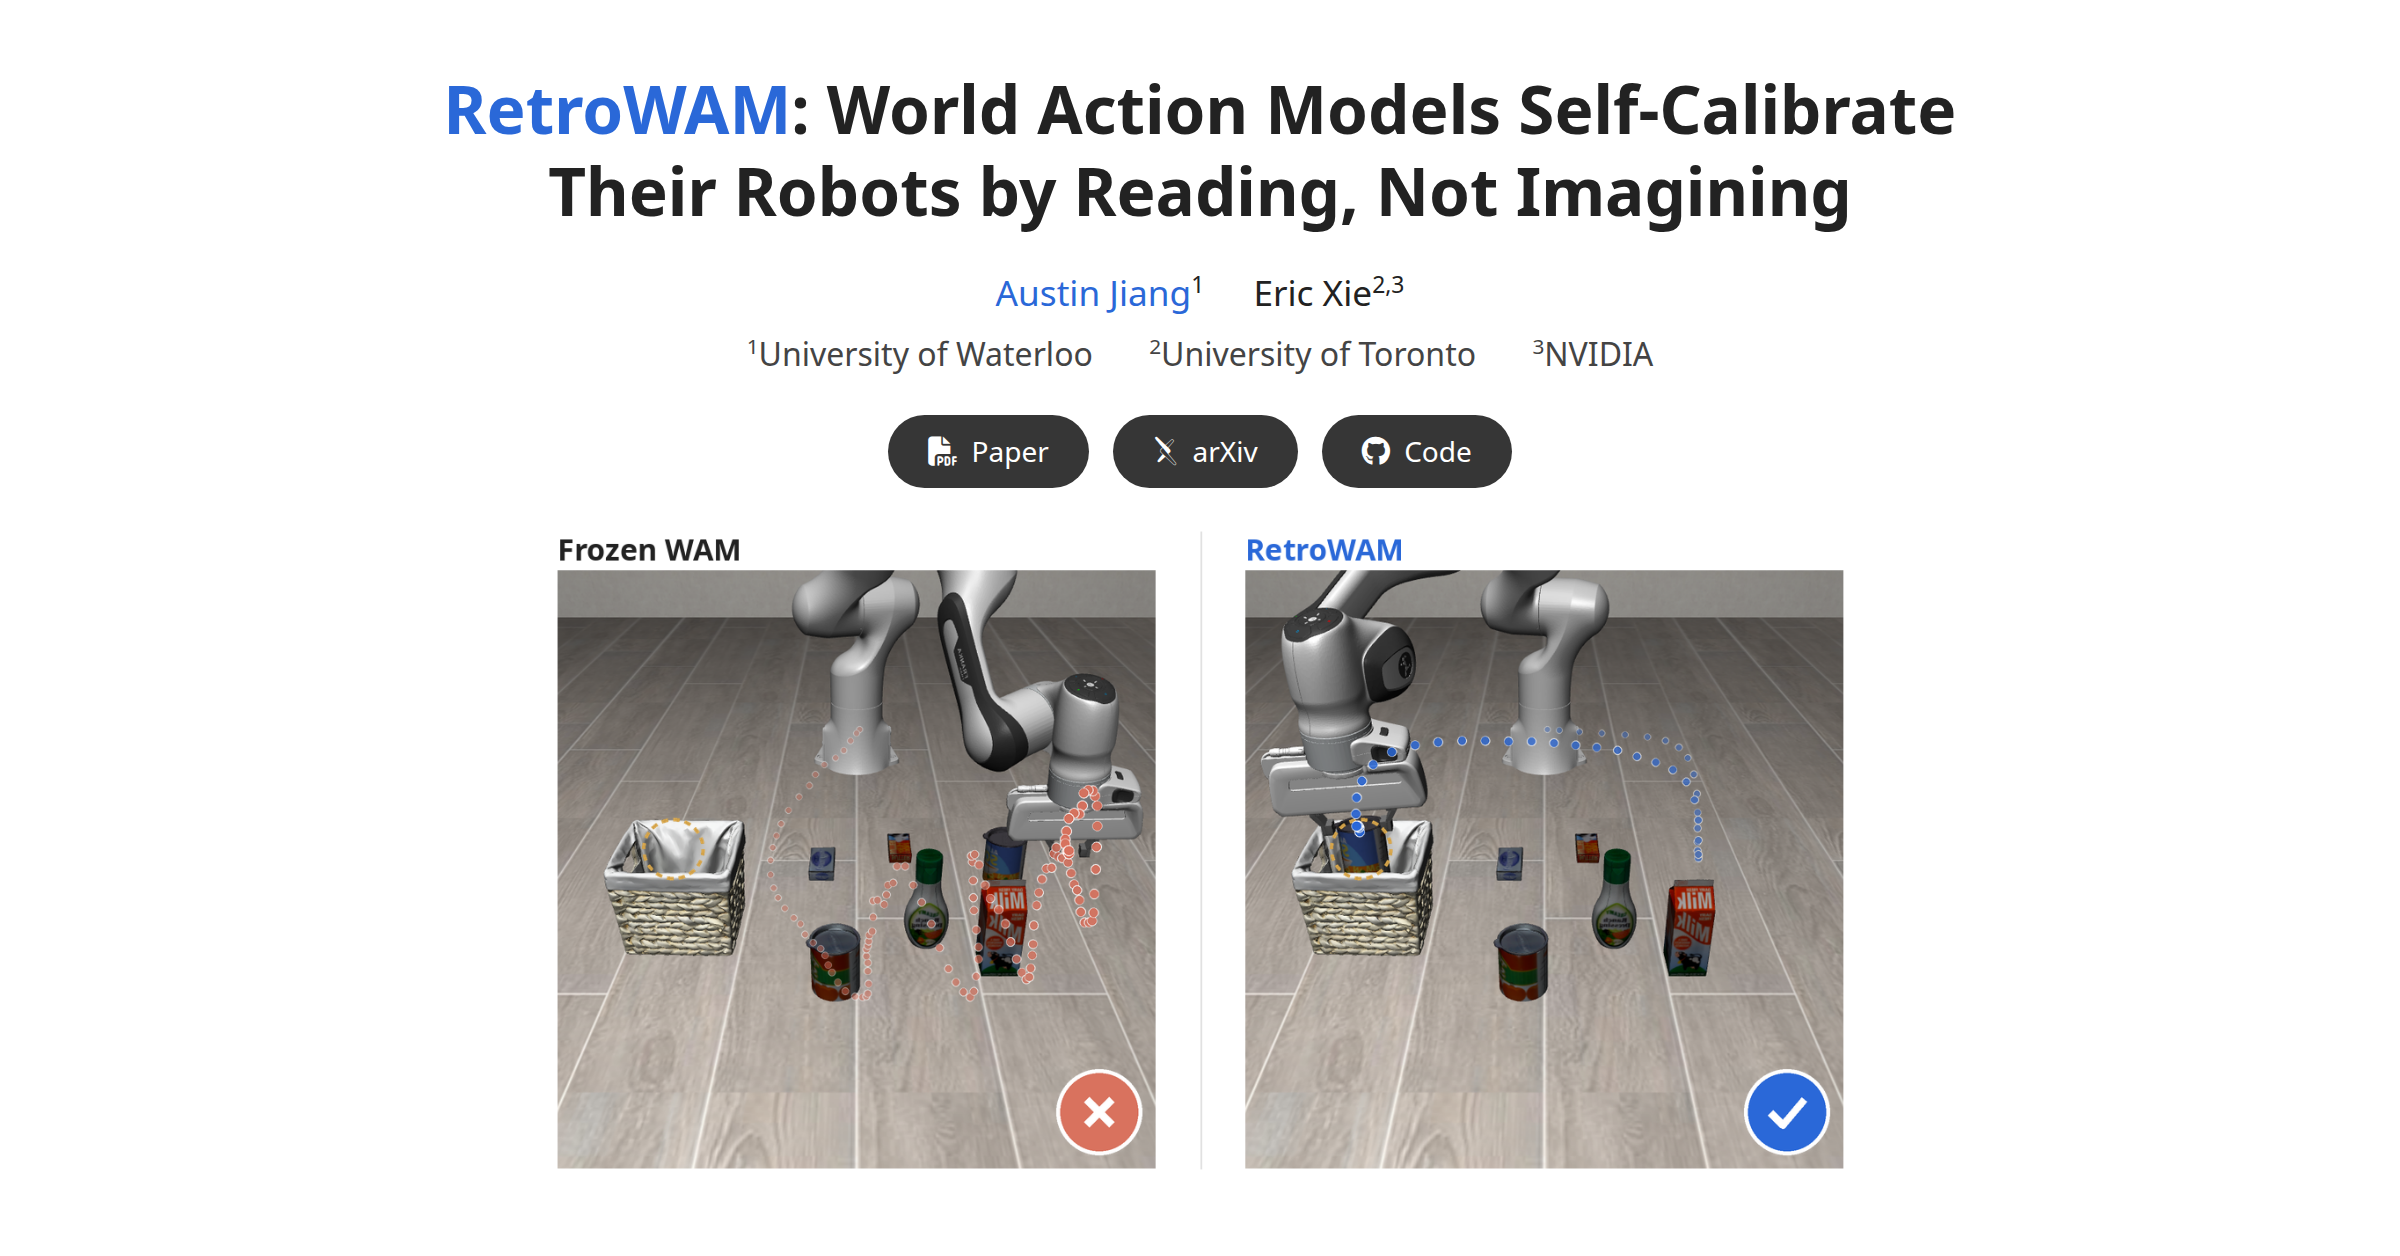
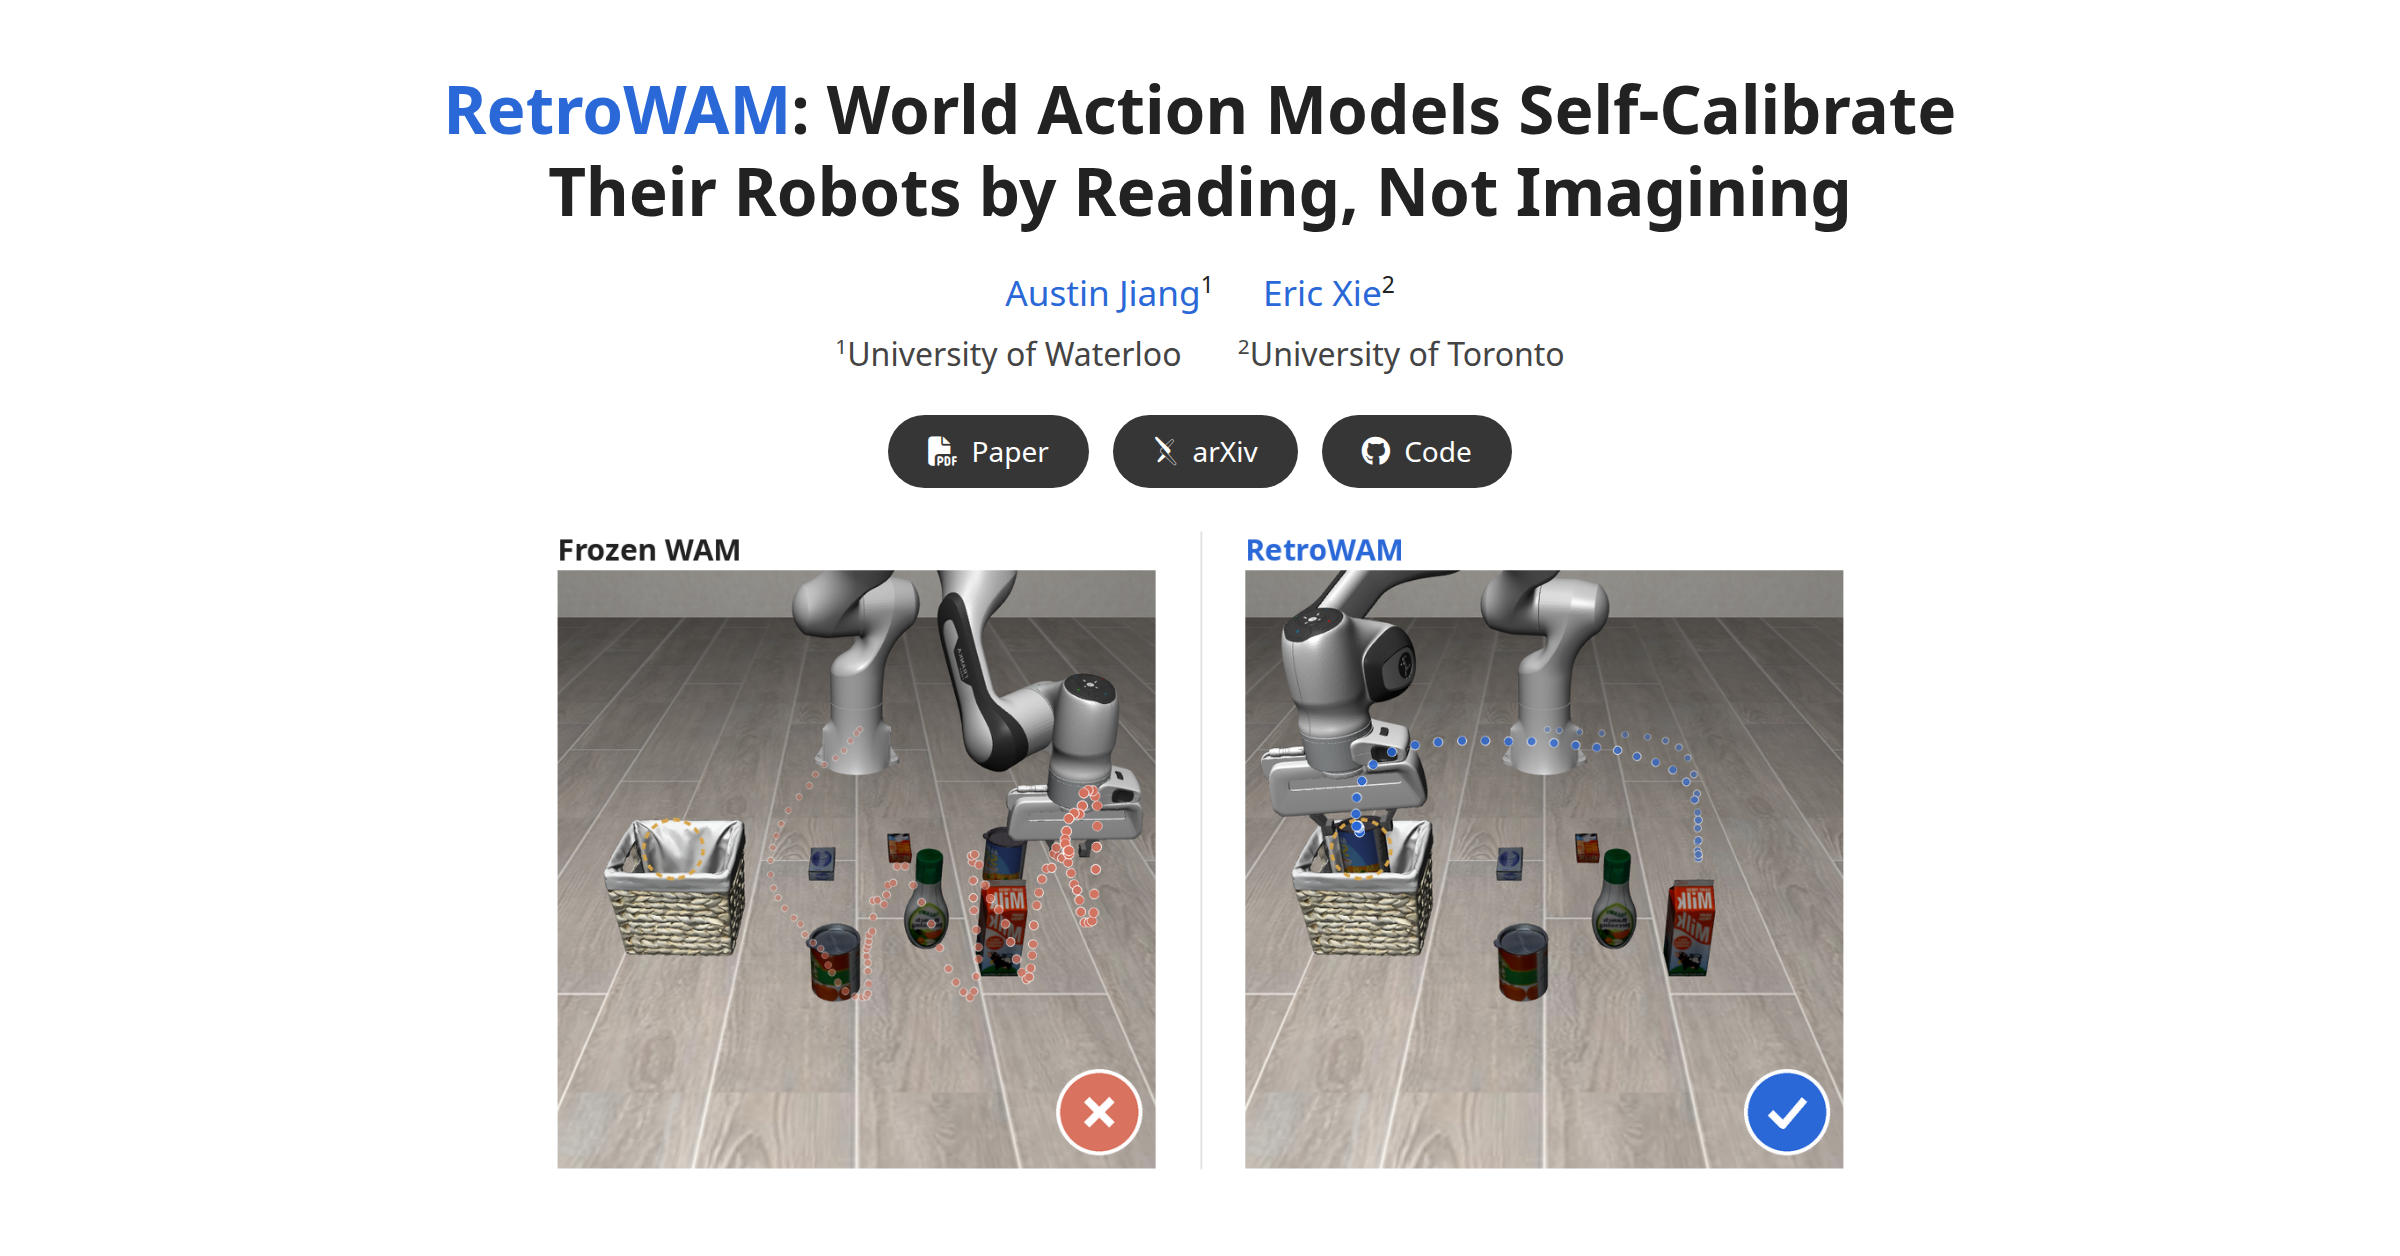
Authors: link Eric Xie's homepage; affiliation University of Toronto only
Thumbnail rebuilt (og:image ?v=5).

Changed region(s): [[0.3125, 0.2174, 0.6875, 0.3105]]

diff --git a/index.html b/index.html
@@ -9,12 +9,12 @@
   <meta property="og:title" content="RetroWAM: World Action Models Self-Calibrate Their Robots by Reading, Not Imagining">
   <meta property="og:description" content="A world action model, run in reverse on the real video, reads what the robot actually did and calibrates the robot online.">
   <meta property="og:url" content="https://retro-wam.github.io/">
-  <meta property="og:image" content="https://retro-wam.github.io/static/images/thumbnail.png?v=4">
+  <meta property="og:image" content="https://retro-wam.github.io/static/images/thumbnail.png?v=5">
   <meta property="og:image:width" content="2400">
   <meta property="og:image:height" content="1256">
   <meta property="og:image:alt" content="RetroWAM project page: title, authors, and a frozen world action model next to RetroWAM on the same LIBERO task with the robot's command frame turned by 90 degrees">
   <meta name="twitter:card" content="summary_large_image">
-  <meta name="twitter:image" content="https://retro-wam.github.io/static/images/thumbnail.png?v=4">
+  <meta name="twitter:image" content="https://retro-wam.github.io/static/images/thumbnail.png?v=5">
   <!-- Tab icon: the paper name's initial. Bump ?v= when the icon changes; browsers cache favicons hard. -->
   <link rel="icon" href="static/images/favicon-32.png?v=2" type="image/png" sizes="32x32">
   <link rel="icon" href="static/images/favicon.svg?v=2" type="image/svg+xml">
@@ -34,12 +34,11 @@
 
   <p class="authors">
     <span class="author"><a href="https://austinjiang.com" target="_blank" rel="noopener">Austin Jiang</a><sup>1</sup></span>
-    <span class="author">Eric Xie<sup>2,3</sup></span>
+    <span class="author"><a href="https://www.erictaoxie.com/" target="_blank" rel="noopener">Eric Xie</a><sup>2</sup></span>
   </p>
   <p class="affiliations">
     <span><sup>1</sup>University of Waterloo</span>
     <span><sup>2</sup>University of Toronto</span>
-    <span><sup>3</sup>NVIDIA</span>
   </p>
 
   <div class="buttons">
